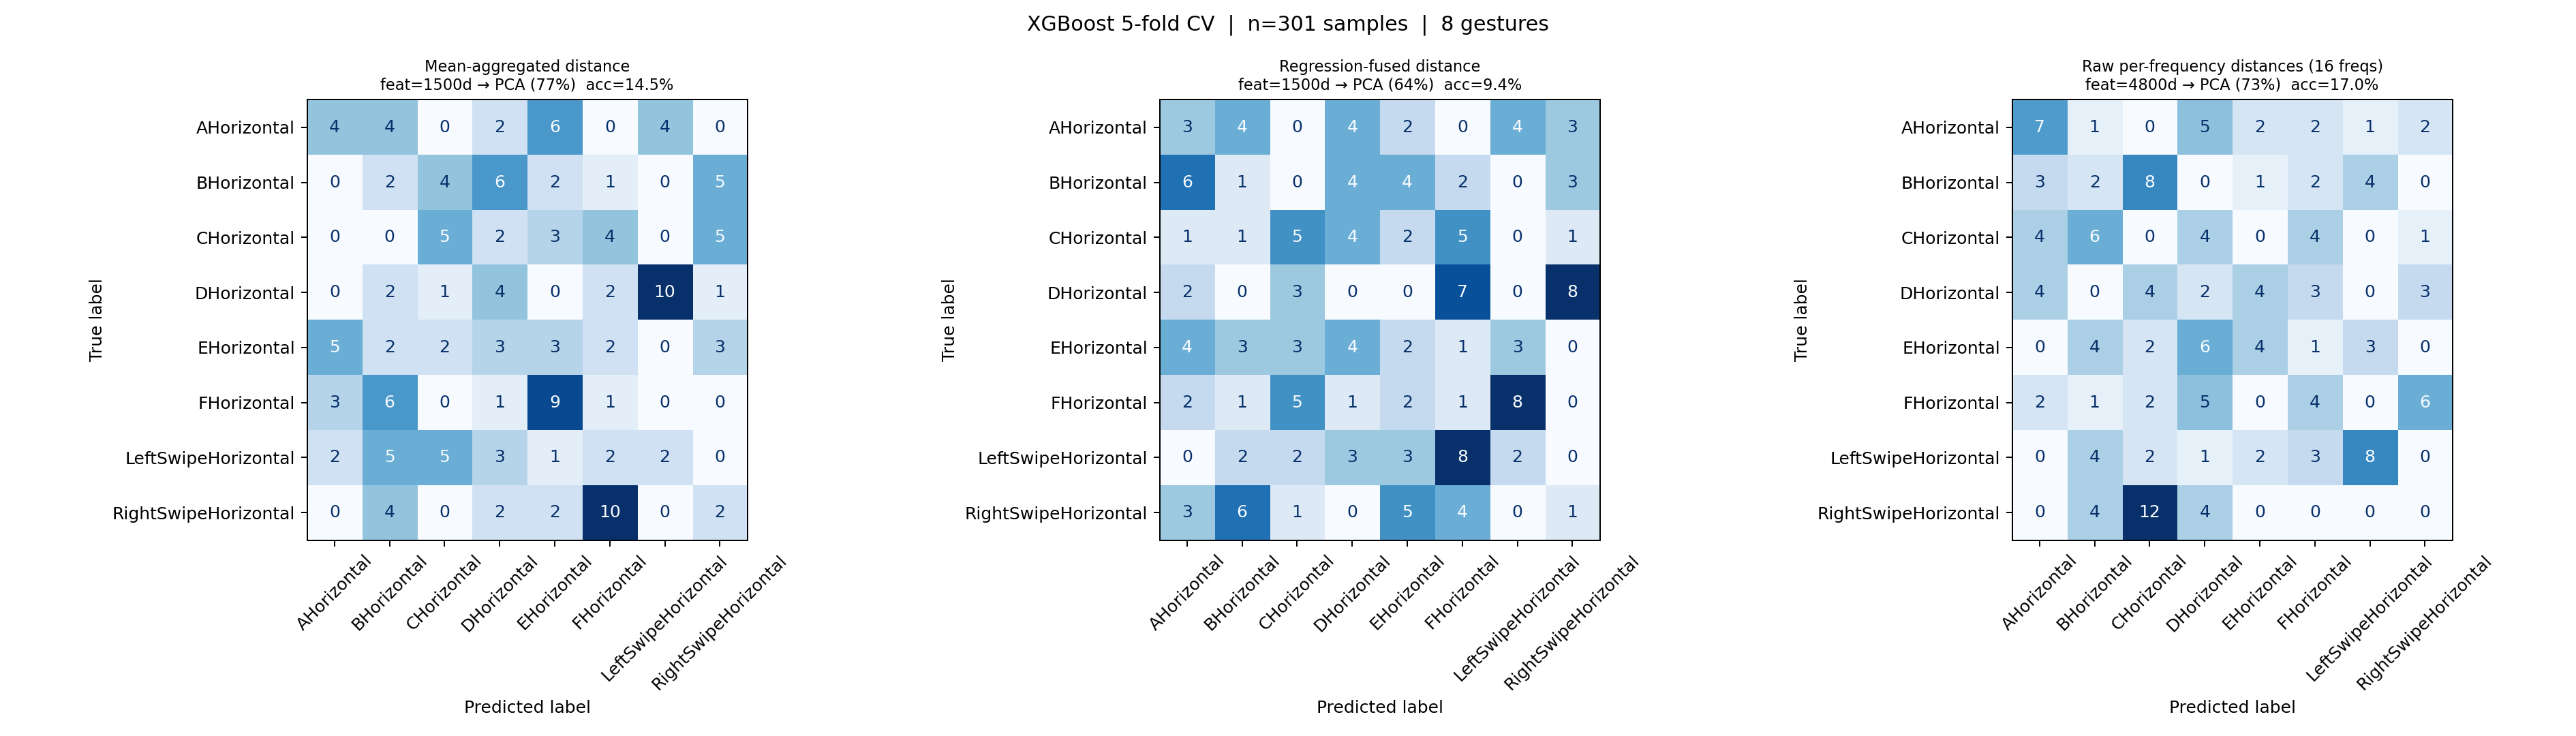
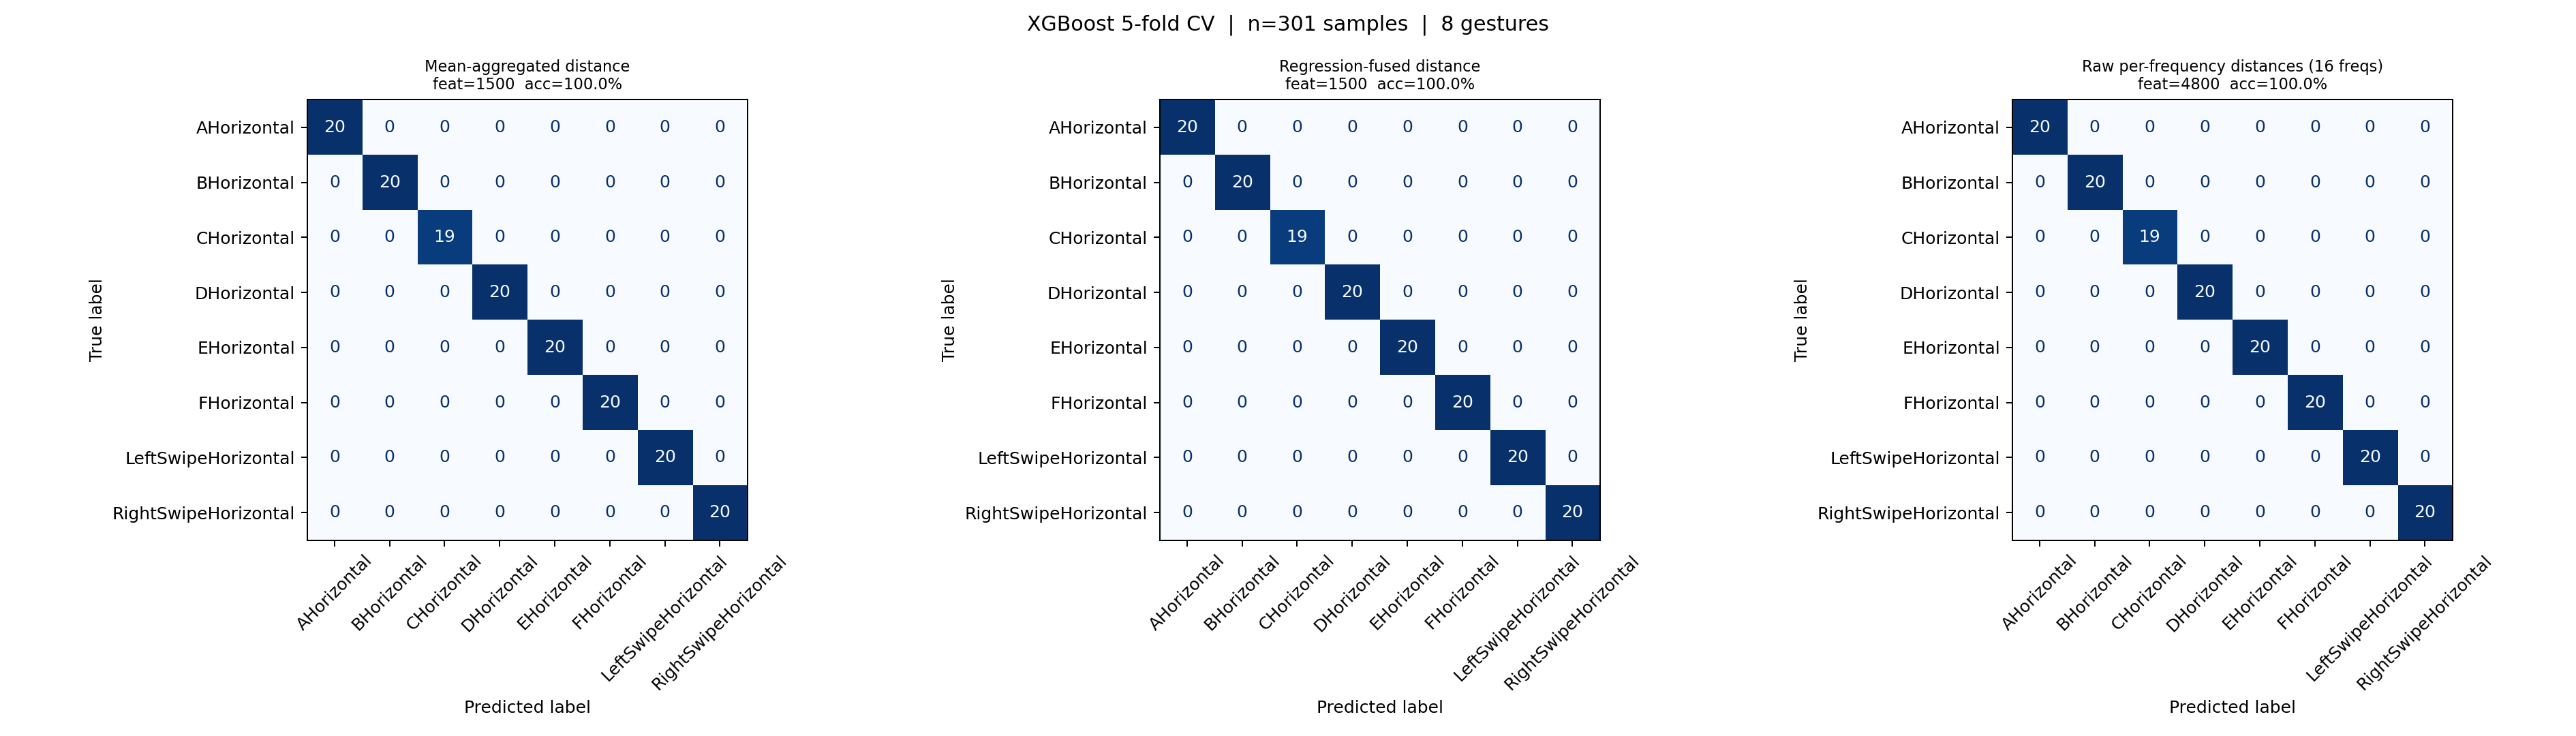
removed usage of prepare function

Changed region(s): [[0.437, 0.0917, 0.6243, 0.7333], [0.0937, 0.0917, 0.3122, 0.7333], [0.7804, 0.0917, 0.9677, 0.7333]]

diff --git a/predict_gestures.py b/predict_gestures.py
@@ -87,7 +87,6 @@ def train_and_predict(
     label_names: list[str],
     signal_type: str,
     feat_dim: int,
-    var_exp: float,
     random_state: int,
     ax_cm,
 ):
@@ -125,7 +124,7 @@ def train_and_predict(
     disp = ConfusionMatrixDisplay(confusion_matrix=cm, display_labels=label_names)
     disp.plot(ax=ax_cm, colorbar=False, cmap="Blues")
     ax_cm.set_title(
-        f"{SIGNAL_TYPES[signal_type]}\nfeat={feat_dim}d → PCA ({var_exp:.0%})  acc={acc:.1%}",
+        f"{SIGNAL_TYPES[signal_type]}\nfeat={feat_dim}  acc={acc:.1%}",
         fontsize=9,
     )
     ax_cm.tick_params(axis="x", rotation=45)
@@ -133,9 +132,9 @@ def train_and_predict(
     return acc, per_class_acc
 
 
-DIR1 = "4-24-2026-william"
-DIR2 = "4-24-2026-xavier"
 DIR3 = "4-24-2026-william"
+DIR1 = "4-24-2026-xavier"
+DIR2 = "4-21-2026-henry_horizontal"
 
 def main():
     parser = argparse.ArgumentParser(description="XGBoost gesture classification.")
@@ -177,13 +176,10 @@ def main():
         y_enc2 = le.transform(labels2)
         label_names = list(le.classes_)
 
-        X_red, var_exp = prepare(X, args.pca_dims, args.random_state)
-        #print(f"{X_red.shape=}")
-        X_red2, var_exp = prepare(X2, args.pca_dims, args.random_state)
 
         acc, per_cls = train_and_predict(
-            X_red, y_enc, X_red2, y_enc2, label_names, stype,
-            X.shape[1], var_exp, args.random_state, ax,
+            X, y_enc, X2, y_enc2, label_names, stype,
+            X.shape[1], args.random_state, ax,
         )
         summary.append((stype, acc))
 